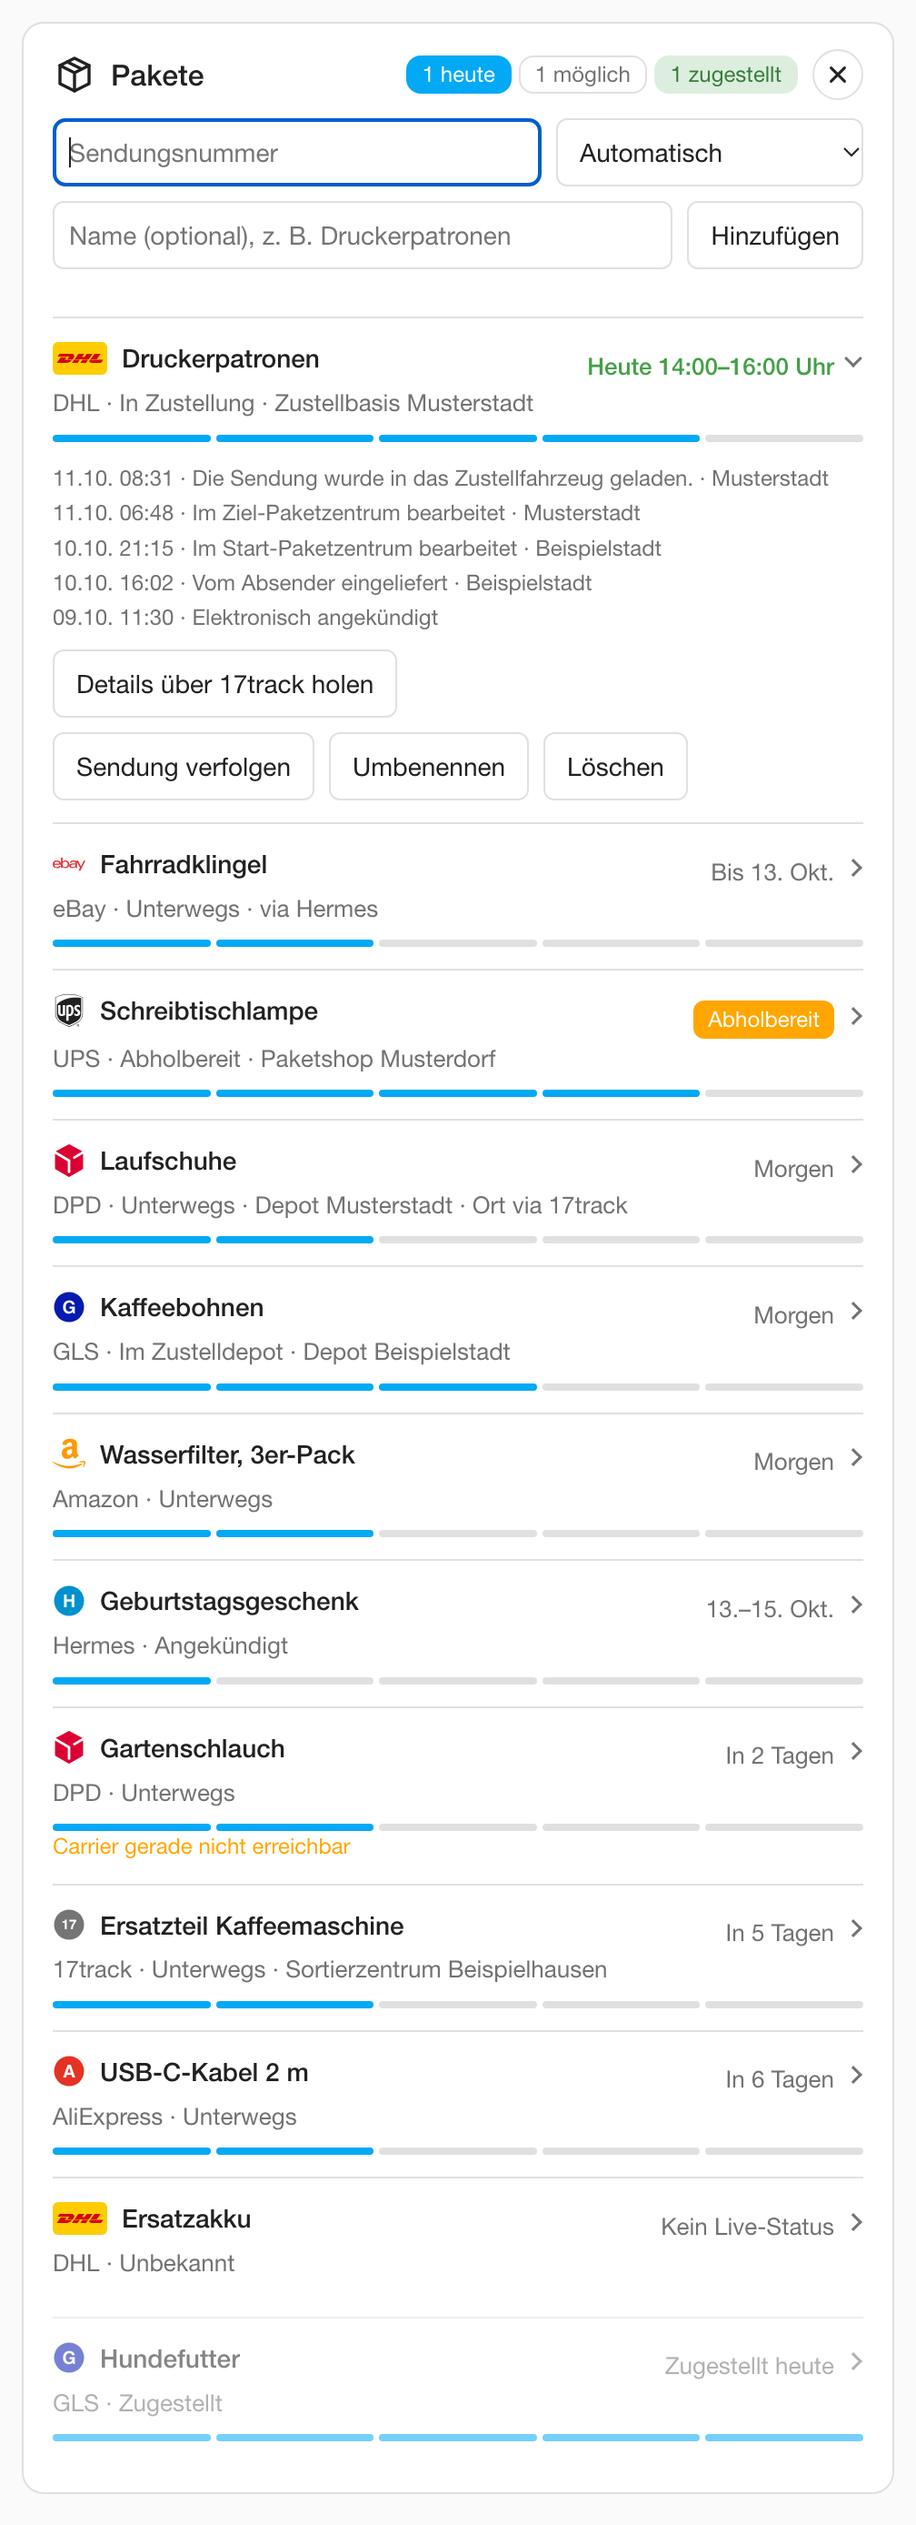
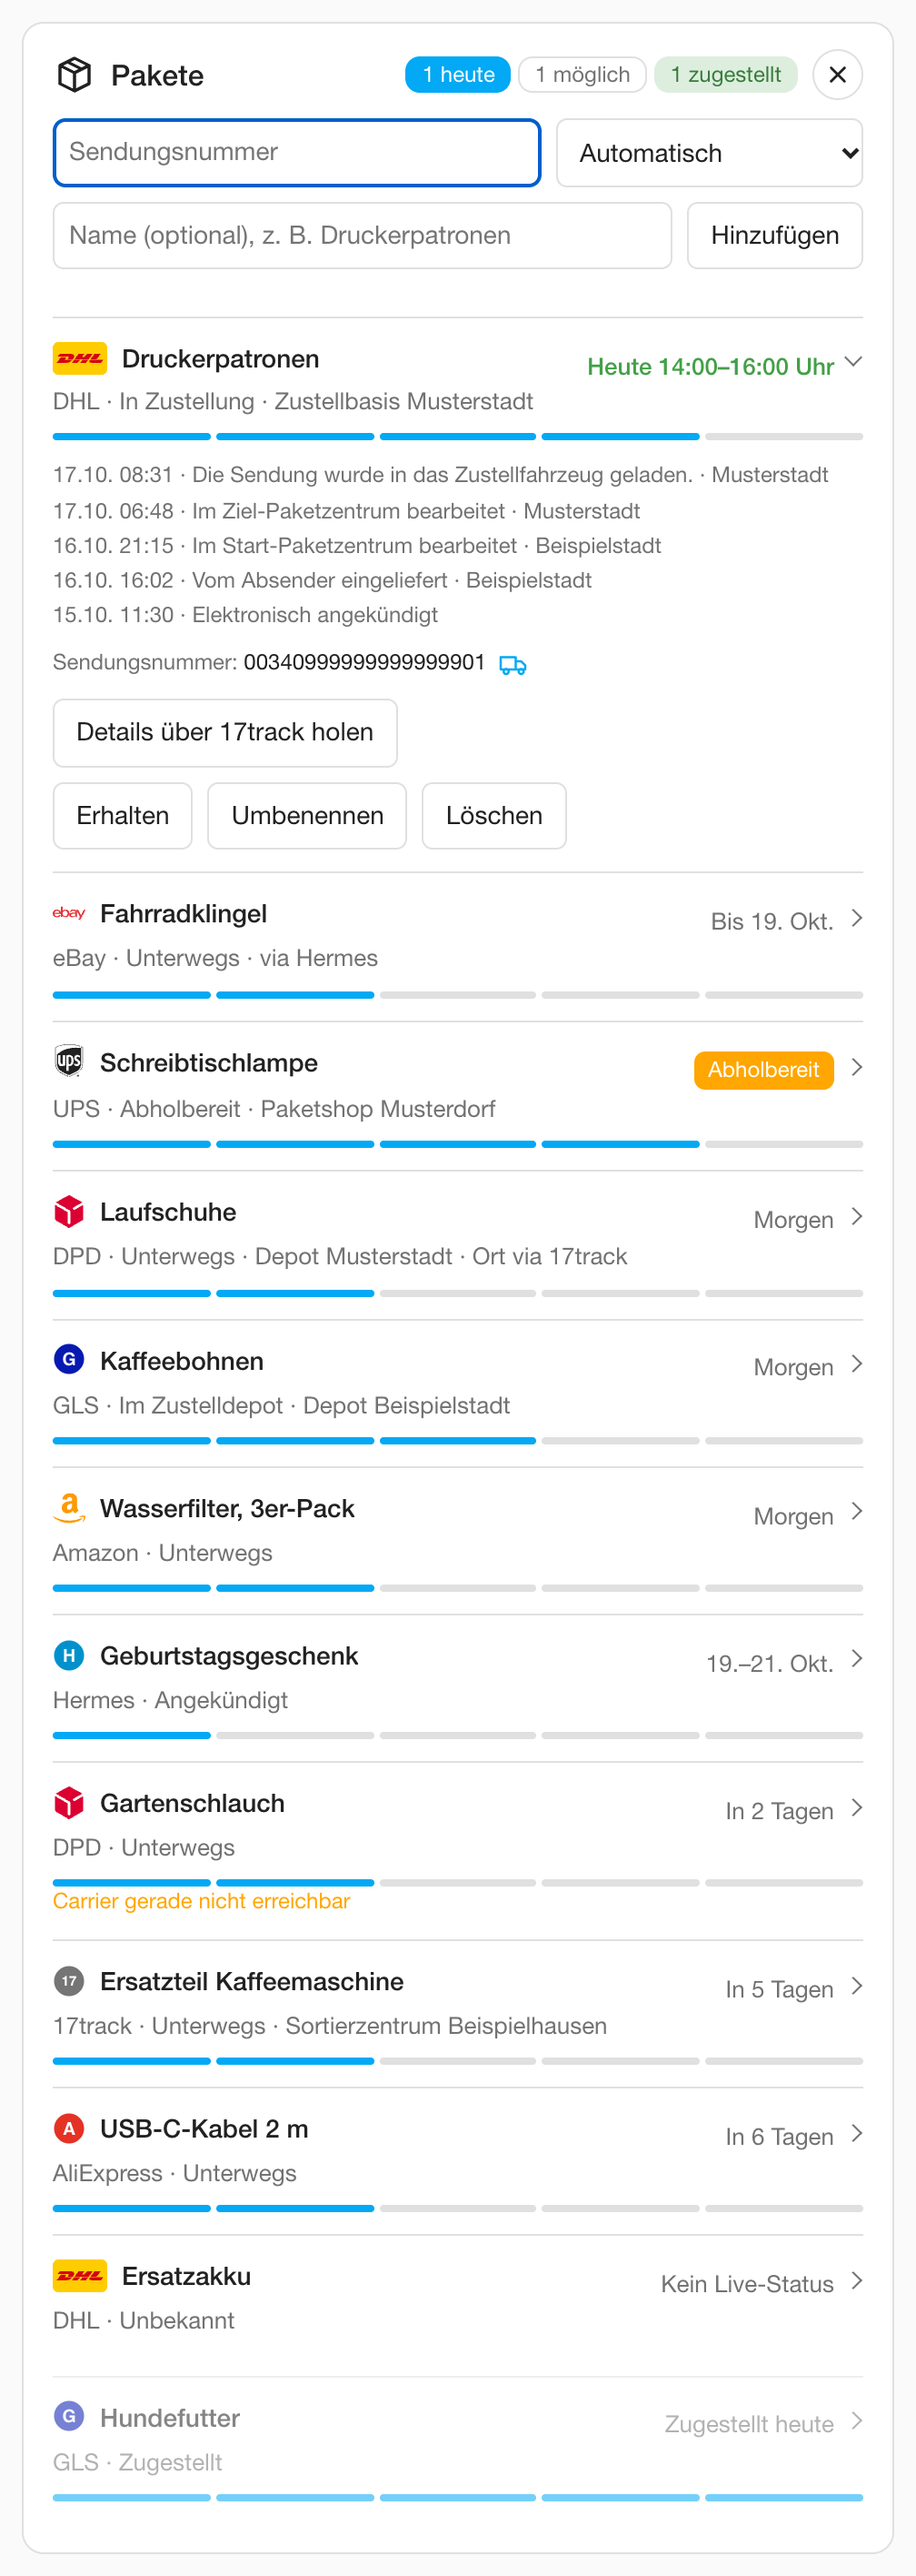
v0.3.38 – DHL Express, AliExpress letzte Meile, Amazon-Sendungslink, Symbole auf der Karte (Beiträge von benep); spät gelesene Mails stufen nicht mehr zurück

Changed region(s): [[0.0615, 0.0, 0.9534, 0.9914]]

diff --git a/custom_components/parcel_tracker/frontend/parcel-tracker-card.js b/custom_components/parcel_tracker/frontend/parcel-tracker-card.js
@@ -1,7 +1,7 @@
 const CARRIER_ICONS = {"dhl": {"path": "M4.22 10.303l-.767 1.043h4.18c.21 0 .208.078.105.218-.105.142-.28.39-.386.534-.054.073-.154.207.171.207h1.71l.505-.69c.314-.426.028-1.312-1.095-1.312H4.22zM11.424 10.303l-1.475 2.002h5.39l1.473-2.002H14.61l-.843 1.146h-.985l.846-1.146h-2.203zM17.529 10.303l-1.474 2.002h2.334l1.472-2.002H17.53zM4.684 11.603l-1.54 2.094h3.754c1.24 0 1.932-.844 2.145-1.136h-2.56c-.326 0-.226-.133-.172-.207.107-.143.283-.388.388-.53.104-.14.107-.22-.105-.22h-1.91zM9.762 12.562l-.836 1.136h2.203l.836-1.136H9.762zM12.947 12.562l-.836 1.136h2.203l.836-1.136h-2.203zM15.865 12.562s-.159.22-.238.326c-.276.374-.033.81.87.81h3.538l.834-1.136h-5.004z", "color": "#FFCC00", "mark": "#D40511"}, "dpd": {"path": "M16.01 10.71a.364.364 0 01-.343-.006l-.558-.331a.43.43 0 01-.182-.312l-.014-.65a.363.363 0 01.165-.3l6.7-3.902L12.377.085A.799.799 0 0012 0a.798.798 0 00-.377.085l-9.4 5.124 10.53 6.13c.098.054.172.181.172.295v8.944c0 .112-.08.241-.178.294l-.567.315c-.171.062-.256.043-.361 0l-.569-.315a.362.362 0 01-.175-.294v-7.973a.223.223 0 00-.095-.156L1.702 7.048v10.579c0 .236.167.528.371.648l9.556 5.636c.102.06.237.09.371.089a.745.745 0 00.371-.09l9.557-5.635a.835.835 0 00.37-.648V7.047Z", "color": "#DC0032"}, "amazon": {"path": "M.045 18.02c.072-.116.187-.124.348-.022 3.636 2.11 7.594 3.166 11.87 3.166 2.852 0 5.668-.533 8.447-1.595l.315-.14c.138-.06.234-.1.293-.13.226-.088.39-.046.525.13.12.174.09.336-.12.48-.256.19-.6.41-1.006.654-1.244.743-2.64 1.316-4.185 1.726a17.617 17.617 0 01-10.951-.577 17.88 17.88 0 01-5.43-3.35c-.1-.074-.151-.15-.151-.22 0-.047.021-.09.051-.13zm6.565-6.218c0-1.005.247-1.863.743-2.577.495-.71 1.17-1.25 2.04-1.615.796-.335 1.756-.575 2.912-.72.39-.046 1.033-.103 1.92-.174v-.37c0-.93-.105-1.558-.3-1.875-.302-.43-.78-.65-1.44-.65h-.182c-.48.046-.896.196-1.246.46-.35.27-.575.63-.675 1.096-.06.3-.206.465-.435.51l-2.52-.315c-.248-.06-.372-.18-.372-.39 0-.046.007-.09.022-.15.247-1.29.855-2.25 1.82-2.88.976-.616 2.1-.975 3.39-1.05h.54c1.65 0 2.957.434 3.888 1.29.135.15.27.3.405.48.12.165.224.314.283.45.075.134.15.33.195.57.06.254.105.42.135.51.03.104.062.3.076.615.01.313.02.493.02.553v5.28c0 .376.06.72.165 1.036.105.313.21.54.315.674l.51.674c.09.136.136.256.136.36 0 .12-.06.226-.18.314-1.2 1.05-1.86 1.62-1.963 1.71-.165.135-.375.15-.63.045a6.062 6.062 0 01-.526-.496l-.31-.347a9.391 9.391 0 01-.317-.42l-.3-.435c-.81.886-1.603 1.44-2.4 1.665-.494.15-1.093.227-1.83.227-1.11 0-2.04-.343-2.76-1.034-.72-.69-1.08-1.665-1.08-2.94l-.05-.076zm3.753-.438c0 .566.14 1.02.425 1.364.285.34.675.512 1.155.512.045 0 .106-.007.195-.02.09-.016.134-.023.166-.023.614-.16 1.08-.553 1.424-1.178.165-.28.285-.58.36-.91.09-.32.12-.59.135-.8.015-.195.015-.54.015-1.005v-.54c-.84 0-1.484.06-1.92.18-1.275.36-1.92 1.17-1.92 2.43l-.035-.02zm9.162 7.027c.03-.06.075-.11.132-.17.362-.243.714-.41 1.05-.5a8.094 8.094 0 011.612-.24c.14-.012.28 0 .41.03.65.06 1.05.168 1.172.33.063.09.099.228.099.39v.15c0 .51-.149 1.11-.424 1.8-.278.69-.664 1.248-1.156 1.68-.073.06-.14.09-.197.09-.03 0-.06 0-.09-.012-.09-.044-.107-.12-.064-.24.54-1.26.806-2.143.806-2.64 0-.15-.03-.27-.087-.344-.145-.166-.55-.257-1.224-.257-.243 0-.533.016-.87.046-.363.045-.7.09-1 .135-.09 0-.148-.014-.18-.044-.03-.03-.036-.047-.02-.077 0-.017.006-.03.02-.063v-.06z", "color": "#FF9900"}, "ups": {"path": "M11.668 14.544l-.028-5.226c.138-.055.387-.111.608-.111.995 0 1.41.774 1.41 2.682 0 1.853-.47 2.765-1.438 2.765-.22 0-.441-.055-.552-.11zM3.124 7.438c4.203-3.843 9.29-4.866 14.018-4.866 1.3 0 2.544.083 3.76.194h-.028v11.253c0 2.184-.774 3.926-2.295 5.171-1.355 1.134-5.447 2.959-6.581 3.456-1.161-.525-5.253-2.378-6.581-3.456-1.493-1.244-2.295-3.014-2.295-5.171V7.438zm12.664 2.599c.028.912.276 1.576 1.687 2.406.747.442 1.051.747 1.051 1.272 0 .581-.387.94-1.023.94-.553 0-1.189-.304-1.631-.691v1.576c.553.304 1.217.525 1.88.525 1.687 0 2.433-1.189 2.461-2.267.028-.995-.249-1.742-1.659-2.571-.608-.387-1.134-.636-1.106-1.244 0-.581.525-.802.995-.802.581 0 1.161.332 1.521.691V8.378c-.304-.221-.94-.581-1.88-.553-1.135.028-2.296.829-2.296 2.212zm-5.834 9.484h1.714l-.028-3.594c.166.028.415.083.774.083 1.908 0 2.986-1.687 2.986-4.175 0-2.461-1.106-4.009-3.152-4.009-.94 0-1.687.221-2.295.608v11.087zm-5.945-6.166c0 1.797.829 2.71 2.516 2.71 1.051 0 1.908-.249 2.571-.691V7.991H7.41v6.387c-.194.138-.47.221-.802.221-.774 0-.885-.719-.885-1.189V7.991H4.009v5.364zM22.12 2.295v11.723c0 2.516-.94 4.645-2.765 6.111-1.549 1.3-6.332 3.429-7.355 3.871-1.023-.442-5.806-2.571-7.355-3.843-1.797-1.465-2.765-3.594-2.765-6.111V2.295C4.756.747 8.074 0 12 0s7.244.747 10.12 2.295zm-.304.221c-2.71-1.465-6-2.184-9.788-2.184s-7.079.746-9.788 2.184v11.502c0 2.433.912 4.452 2.627 5.862 1.576 1.3 6.581 3.484 7.161 3.76.581-.249 5.585-2.433 7.161-3.733 1.714-1.41 2.627-3.429 2.627-5.862V2.516zm-2.433 20.295c0 .47-.387.829-.829.829a.831.831 0 0 1-.829-.829c0-.47.387-.829.829-.829.441 0 .801.359.829.829zm-.166 0a.679.679 0 0 0-.664-.691c-.359 0-.664.332-.664.691 0 .359.304.664.664.664a.673.673 0 0 0 .664-.664zm-.553.055c.028.055.304.442.304.442h-.221s-.276-.387-.276-.415h-.028v.415h-.194v-.995l.304-.028c.249 0 .332.166.332.304s-.083.25-.221.277zm.027-.276c0-.055 0-.138-.166-.138h-.083v.304h.028c.194 0 .221-.083.221-.166z", "color": "var(--primary-text-color)"}, "ebay": {"path": "M6.056 12.132v-4.92h1.2v3.026c.59-.703 1.402-.906 2.202-.906 1.34 0 2.828.904 2.828 2.855 0 .233-.015.457-.06.668.24-.953 1.274-1.305 2.896-1.344.51-.018 1.095-.018 1.56-.018v-.135c0-.885-.556-1.244-1.53-1.244-.72 0-1.245.3-1.305.81h-1.275c.136-1.29 1.5-1.62 2.686-1.62 1.064 0 1.995.27 2.415 1.02l-.436-.84h1.41l2.055 4.125 2.055-4.126H24l-3.72 7.305h-1.346l1.07-2.04-2.33-4.38c.13.255.2.555.2.93v2.46c0 .346.01.69.04 1.005H16.8a6.543 6.543 0 01-.046-.765c-.603.734-1.32.96-2.32.96-1.48 0-2.272-.78-2.272-1.695 0-.15.015-.284.037-.405-.3 1.246-1.36 2.086-2.767 2.086-.87 0-1.694-.315-2.2-.93 0 .24-.015.494-.04.734h-1.18c.02-.39.04-.855.04-1.245v-1.05h-4.83c.065 1.095.818 1.74 1.853 1.74.718 0 1.355-.3 1.568-.93h1.24c-.24 1.29-1.61 1.725-2.79 1.725C.95 15.009 0 13.822 0 12.232c0-1.754.982-2.91 3.116-2.91 1.688 0 2.93.886 2.94 2.806v.005zm9.137.183c-1.095.034-1.77.233-1.77.95 0 .465.36.97 1.305.97 1.26 0 1.935-.69 1.935-1.814v-.13c-.45 0-.99.006-1.484.022h.012zm-6.06 1.875c1.11 0 1.876-.806 1.876-2.02s-.768-2.02-1.893-2.02c-1.11 0-1.89.806-1.89 2.02s.765 2.02 1.875 2.02h.03zm-4.35-2.514c-.044-1.125-.854-1.546-1.725-1.546-.944 0-1.694.474-1.815 1.546z", "color": "#E53238"}};
 // The version of the integration this file ships with. The browser keeps an old card after
 // an update until the page is reloaded: sensor.pakete_heute names the installed version.
-const CARD_VERSION = "0.3.37";
+const CARD_VERSION = "0.3.38";
 const CARRIER_LABEL = { dhl: "DHL", dpd: "DPD", gls: "GLS", hermes: "Hermes", ups: "UPS", amazon: "Amazon", ebay: "eBay", aliexpress: "AliExpress", eventim: "Eventim", other: "17track" };
 // Simple Icons' "hermes" is not used for the parcel service, it has no GLS logo, and
 // "other" has no logo: a coloured dot with letters instead. AliExpress and Eventim likewise.

diff --git a/tests/test_docs_content.py b/tests/test_docs_content.py
@@ -1235,8 +1235,14 @@ def test_community_setup_names_the_harmless_message_before_the_first_filed_mail(
 
 def test_helping_page_is_at_this_version():
     text = TEXTS[HELPING]
-    assert "*Stand: 16. Oktober 2026, Version 0.3.37." in text
+    assert "*Stand: 17. Oktober 2026, Version 0.3.38." in text
     _all_have(text, [
+        # v0.3.38 (contributions by benep)
+        "**DHL Express („DHL On Demand Delivery“)**",
+        "**AliExpress: Mails der letzten Meile**",
+        "**Amazon: „Sendung verfolgen“ führt zu Amazon**",
+        "**Symbole hinter den Nummern**",
+        "am Handy gut treffen",
         "**DHL mit API-Key: Verlauf ohne HTML**",
         "**DPD: die Mails nach der Ankündigung**",
         "**eBay: „Update zur Bestellung“ und „Zustellversuch“**",
@@ -1253,7 +1259,7 @@ def test_helping_page_is_at_this_version():
         "| **Hermes** | im PaketShop abholbereit |",
         "| **Amazon** | Bestellung storniert; Mails von Amazon in Österreich |",
         "**DPD Österreich**", "**DHL**", "**GLS**", "**UPS**", "**AliExpress**",
-        "**Eventim**", "**Österreichische Post, Schweizer Post**",
+        "**Eventim**", "**Österreichische Post, Schweizer Post**", "**DHL Express**",
     ])
     # Confirmed by users: no longer asked for, listed as confirmed instead.
     assert "**Eigener Ordner im Postfach**" not in text

diff --git a/tests/test_readme.py b/tests/test_readme.py
@@ -338,6 +338,11 @@ def test_readme_shows_the_card_screenshots_at_the_top():
     assert all("Karte" in alt for alt in alts)
     assert "hellen Design" in intro and "dunklen Design" in intro and "aufgeklappten" in intro
     assert "geöffneter Eingabe" in intro  # the detail screenshot shows the open form
+    # v0.3.38: the links are icons behind the numbers; the alt text says so, not "Link".
+    detail_alt = next(alt for alt in alts if "aufgeklappten DHL-Paket" in alt)
+    assert "Sendungsnummer mit dem Symbol „Sendung verfolgen“" in detail_alt
+    assert "„Erhalten“" in detail_alt
+    assert "Link" not in detail_alt
     assert "Die Bilder zeigen erfundene Pakete" in intro
     # The demo page, on the site (docs/demo/ is published as it is).
     assert f"({SITE}demo/index.html)" in intro

diff --git a/custom_components/parcel_tracker/const.py b/custom_components/parcel_tracker/const.py
@@ -5,7 +5,7 @@ from datetime import timedelta
 from typing import Any, Protocol
 
 DOMAIN = "parcel_tracker"
-VERSION = "0.3.37"
+VERSION = "0.3.38"
 
 CONF_DHL_API_KEY = "dhl_api_key"
 CONF_COUNTRY = "country"

diff --git a/tests/test_version.py b/tests/test_version.py
@@ -11,4 +11,4 @@ def test_version_matches_manifest():
 
 
 def test_version():
-    assert const.VERSION == "0.3.37"
+    assert const.VERSION == "0.3.38"

diff --git a/docs/mithelfen.md b/docs/mithelfen.md
@@ -2,7 +2,7 @@
 
 Paket Tracker ist eine öffentliche Beta. Vieles ist gebaut und automatisch getestet, aber längst nicht alles ist mit echten Paketen und echten Mails bestätigt. Diese Seite sagt, **was gerade am meisten hilft**.
 
-*Stand: 16. Oktober 2026, Version 0.3.37. Die Liste wird mit jeder Version aktualisiert.*
+*Stand: 17. Oktober 2026, Version 0.3.38. Die Liste wird mit jeder Version aktualisiert.*
 
 !!! tip "Die schnellste Hilfe"
     Du nutzt eine der Funktionen unten und sie läuft? Dann reicht ein Satz: **Was** du genutzt hast, **mit welcher Version**, und **ob es gepasst hat**. Auch „läuft einfach“ ist eine Rückmeldung, die zählt.
@@ -47,6 +47,9 @@ Diese Funktionen sind fertig, aber im Alltag noch von niemandem oder nur von ein
 | **DPD Österreich: „Ihr DPD Paket kommt zwischen … Uhr“** | Steht das Paket mit dieser Mail auf „In Zustellung“, heute mit dem Zeitfenster aus dem Betreff? Neu seit v0.3.35. | [Issue #31](https://github.com/SoerenKaiser99/parcel_tracker/issues/31) |
 | **Amazon: „Paket zur Abholung bereit“** | Steht die Bestellung nach der Mail von `pickup-point@amazon.de` auf „Abholbereit“, mit Abholort und letztem Abholtag auf der Karte und in der Benachrichtigung? Ist „Abholung am …“ in deiner Mail wirklich der letzte Abholtag? Gilt das auch für Amazon Locker und Counter? Neu seit v0.3.36. | [Issue #33](https://github.com/SoerenKaiser99/parcel_tracker/issues/33) |
 | **DHL: Sendungsnummern aus anderen Ländern** | Entsteht aus einer DHL-Mail mit einer Nummer des Absenderlands (z. B. `LE…BE`, `LW…NL`) ein Paket, und zeigt es mit DHL-Key den Live-Status? Neu seit v0.3.37. | [Issue #34](https://github.com/SoerenKaiser99/parcel_tracker/issues/34) |
+| **DHL Express („DHL On Demand Delivery“)** | Setzen die Mails von `noreply.odd@dhl.com` „Unterwegs“, „In Zustellung“ für heute und „Zugestellt“ mit der Uhrzeit aus der Mail? Bekommt das Paket den Namen des Absenders (bei Amazon „Amazon-Sendung (DHL)“)? Neu seit v0.3.38 (Beitrag von benep). | im Forum |
+| **AliExpress: Mails der letzten Meile** | Setzt „Paket … wird zugestellt“ die Bestellung heute auf „In Zustellung“ und „Paket … wurde zugestellt“ auf „Zugestellt“? Steht nach „Lieferprobleme für Packstück …“ „Versendet“ mit dem Text „Lieferprobleme“? Neu seit v0.3.38 (Beitrag von benep). | im Forum |
+| **Amazon: „Sendung verfolgen“ führt zu Amazon** | Öffnet das Symbol bei einer Amazon-Bestellung ohne Nummer eines Paketdienstes Amazons Sendungsverfolgung mit der richtigen Sendung? Steht dort „Amazon-Sendung: …“? Neu seit v0.3.38 (Beitrag von benep). | im Forum |
 
 ### Karte, Benachrichtigungen, Automationen
 
@@ -56,6 +59,7 @@ Diese Funktionen sind fertig, aber im Alltag noch von niemandem oder nur von ein
 | **„Namen ausblenden“** | Taucht irgendwo doch noch ein echter Name auf – Karte, Kalender, Benachrichtigung, Sprachassistent? | [Fehler melden](hilfe.md#fehler-melden) |
 | **Benachrichtigung „Abholbereit“** | Kommt die Meldung, wenn ein Paket in Packstation, Filiale oder PaketShop liegt? | im Forum |
 | **Auslöser im Automations-Editor** | Findest du die fünf Auslöser unter dem Gerät „Paket Tracker“, und lösen sie aus? | im Forum |
+| **Symbole hinter den Nummern** | Öffnet der Lieferwagen hinter der Sendungsnummer die Sendungsverfolgung und der Beleg hinter der Bestellnummer die Bestellseite? Lassen sich die kleinen Symbole am Handy gut treffen? Neu seit v0.3.38 (Beitrag von benep). | im Forum |
 | **Symbol „Bestellung öffnen“ bei eBay** | Öffnet es die richtige Bestellseite? Bei Amazon ist das bestätigt. | im Forum |
 | **Sendungs- und Bestellnummer im aufgeklappten Paket** | Steht unter dem Verlauf „Sendungsnummer: …“, bei einer Bestellung „Bestellnummer: …“ so wie beim Shop? Lässt sich die Nummer am Handy markieren und kopieren? Neu seit v0.3.34. | im Forum |
 | **Die [Rezepte](rezepte.md)** | Läuft ein Rezept bei dir so, wie es dasteht? Was musstest du ändern? | im Forum |
@@ -67,12 +71,13 @@ Der Mail-Import kann nur lesen, was er schon einmal als Beispiel gesehen hat. Vo
 | Absender | Welche Mail |
 |---|---|
 | **DHL** | Paket liegt in der Packstation oder Filiale; Zustellung nicht möglich; beim Nachbarn abgegeben |
+| **DHL Express** | „ist unterwegs“ und „wird voraussichtlich … ausgeliefert“ (bisher nur „zugestellt“ als Beispiel); Zustellung nicht möglich; Service Point |
 | **DPD Österreich** | laufende Sendung mit Zustelltag, aber ohne Zeitfenster; zugestellt; im Pickup Paketshop abholbereit; Zustellung nicht möglich |
 | **GLS** | im PaketShop abholbereit; Zustellung verschoben |
 | **Hermes** | im PaketShop abholbereit |
 | **UPS** | jede Mail hilft, bisher gibt es nur wenige Beispiele |
 | **Amazon** | Bestellung storniert; Mails von Amazon in Österreich |
-| **AliExpress** | englische Mails; Mails, die bei dir unter „Nicht erkannt“ landen |
+| **AliExpress** | englische Mails; „Paket … wird zugestellt“ und „Lieferprobleme für Packstück …“ (bisher nur „Paket … wurde zugestellt“ als Beispiel); Mails, die bei dir unter „Nicht erkannt“ landen |
 | **Eventim** | Versandbenachrichtigungen und Bestellbestätigungen mit einer anderen Liefermethode als „Standardversand (Deutschland)“, z. B. Einschreiben oder Express; Mails von `bestellstatus@eventim.de`, die bei dir unter „Nicht erkannt“ landen |
 | **Österreichische Post, Schweizer Post** | Ankündigung, in Zustellung, zugestellt – damit diese Dienste überhaupt dazukommen können |
 

diff --git a/README.md b/README.md
@@ -8,7 +8,7 @@ Home-Assistant-Integration, die Pakete von DHL, DPD, GLS, Hermes und (optional) 
 
 <p>
   <img src="https://raw.githubusercontent.com/SoerenKaiser99/parcel_tracker/main/docs/images/karte-hell.png" width="260" alt="Die Paket-Tracker-Karte im hellen Design: zwölf Pakete von DHL, DPD, GLS, Hermes, UPS, Amazon, eBay, AliExpress und 17track mit Status, Fortschrittsbalken und Liefertermin">
-  <img src="https://raw.githubusercontent.com/SoerenKaiser99/parcel_tracker/main/docs/images/karte-detail.png" width="260" alt="Die Karte mit geöffneter Eingabe für eine neue Sendung und einem aufgeklappten DHL-Paket: Verlauf der Sendung, der Link „Sendung verfolgen“ und die Knöpfe „Details über 17track holen“, „Umbenennen“ und „Löschen“">
+  <img src="https://raw.githubusercontent.com/SoerenKaiser99/parcel_tracker/main/docs/images/karte-detail.png" width="260" alt="Die Karte mit geöffneter Eingabe für eine neue Sendung und einem aufgeklappten DHL-Paket: Verlauf der Sendung, die Sendungsnummer mit dem Symbol „Sendung verfolgen“ dahinter und die Knöpfe „Details über 17track holen“, „Erhalten“, „Umbenennen“ und „Löschen“">
   <img src="https://raw.githubusercontent.com/SoerenKaiser99/parcel_tracker/main/docs/images/karte-dunkel.png" width="260" alt="Die Paket-Tracker-Karte im dunklen Design">
 </p>
 
